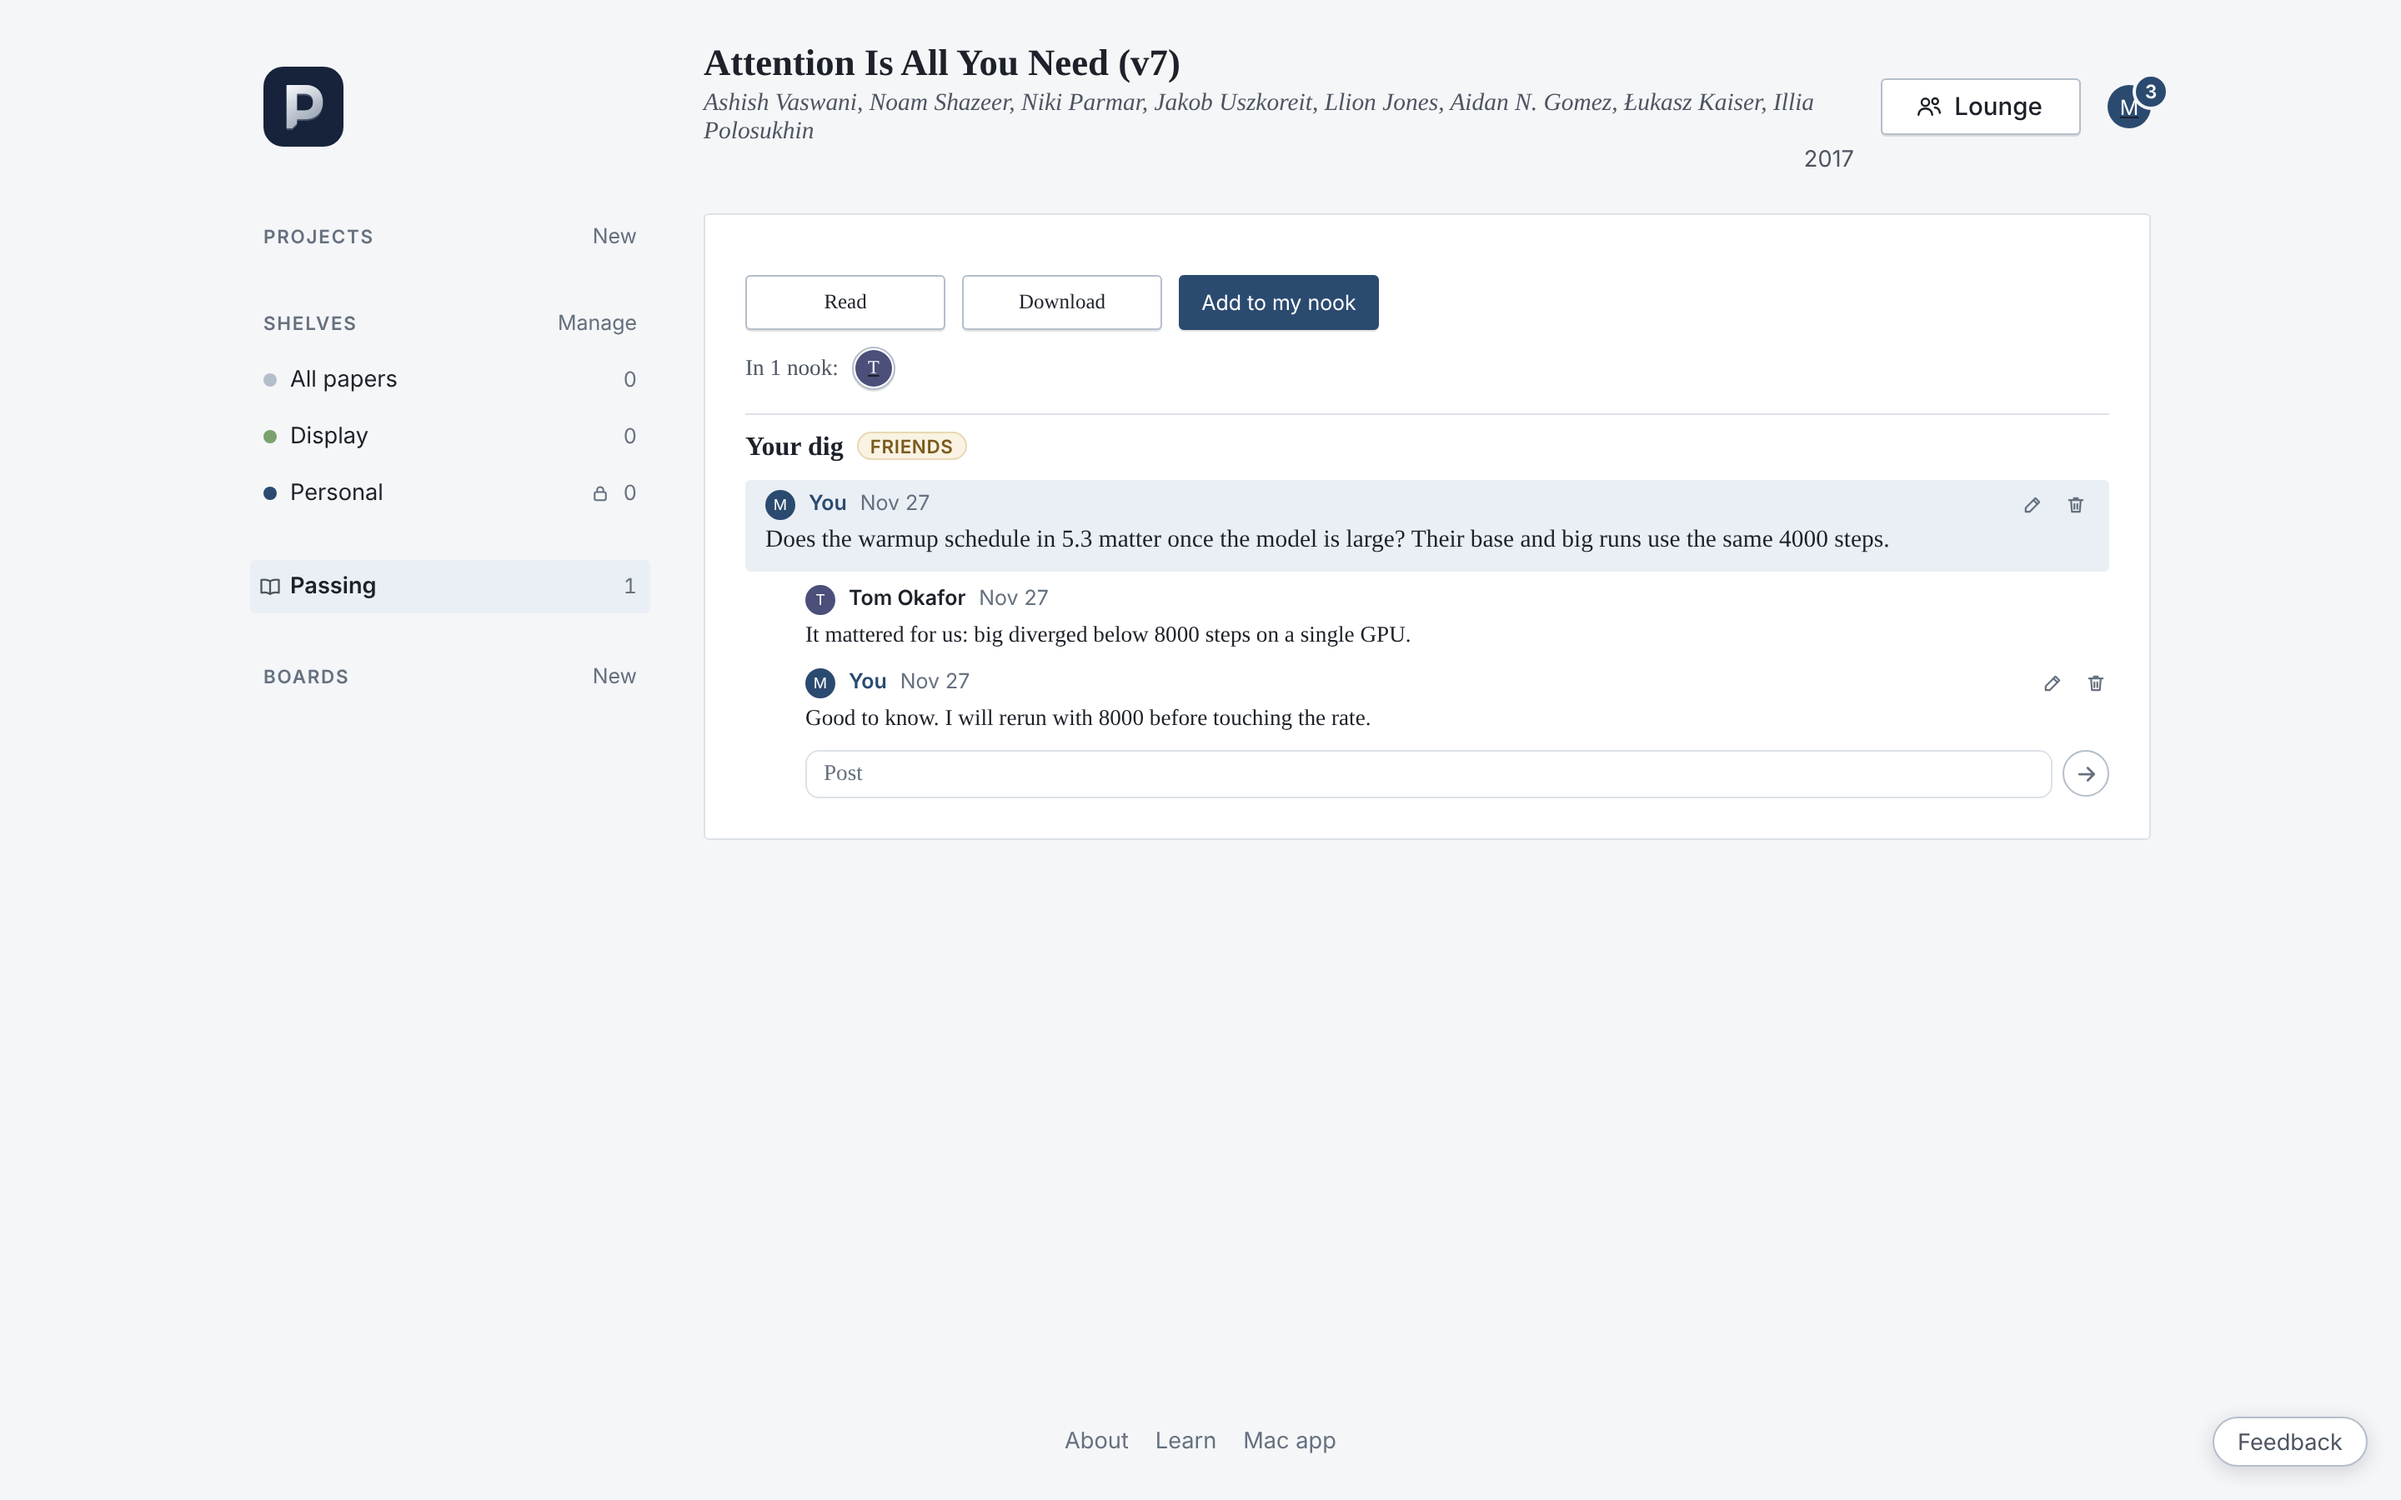
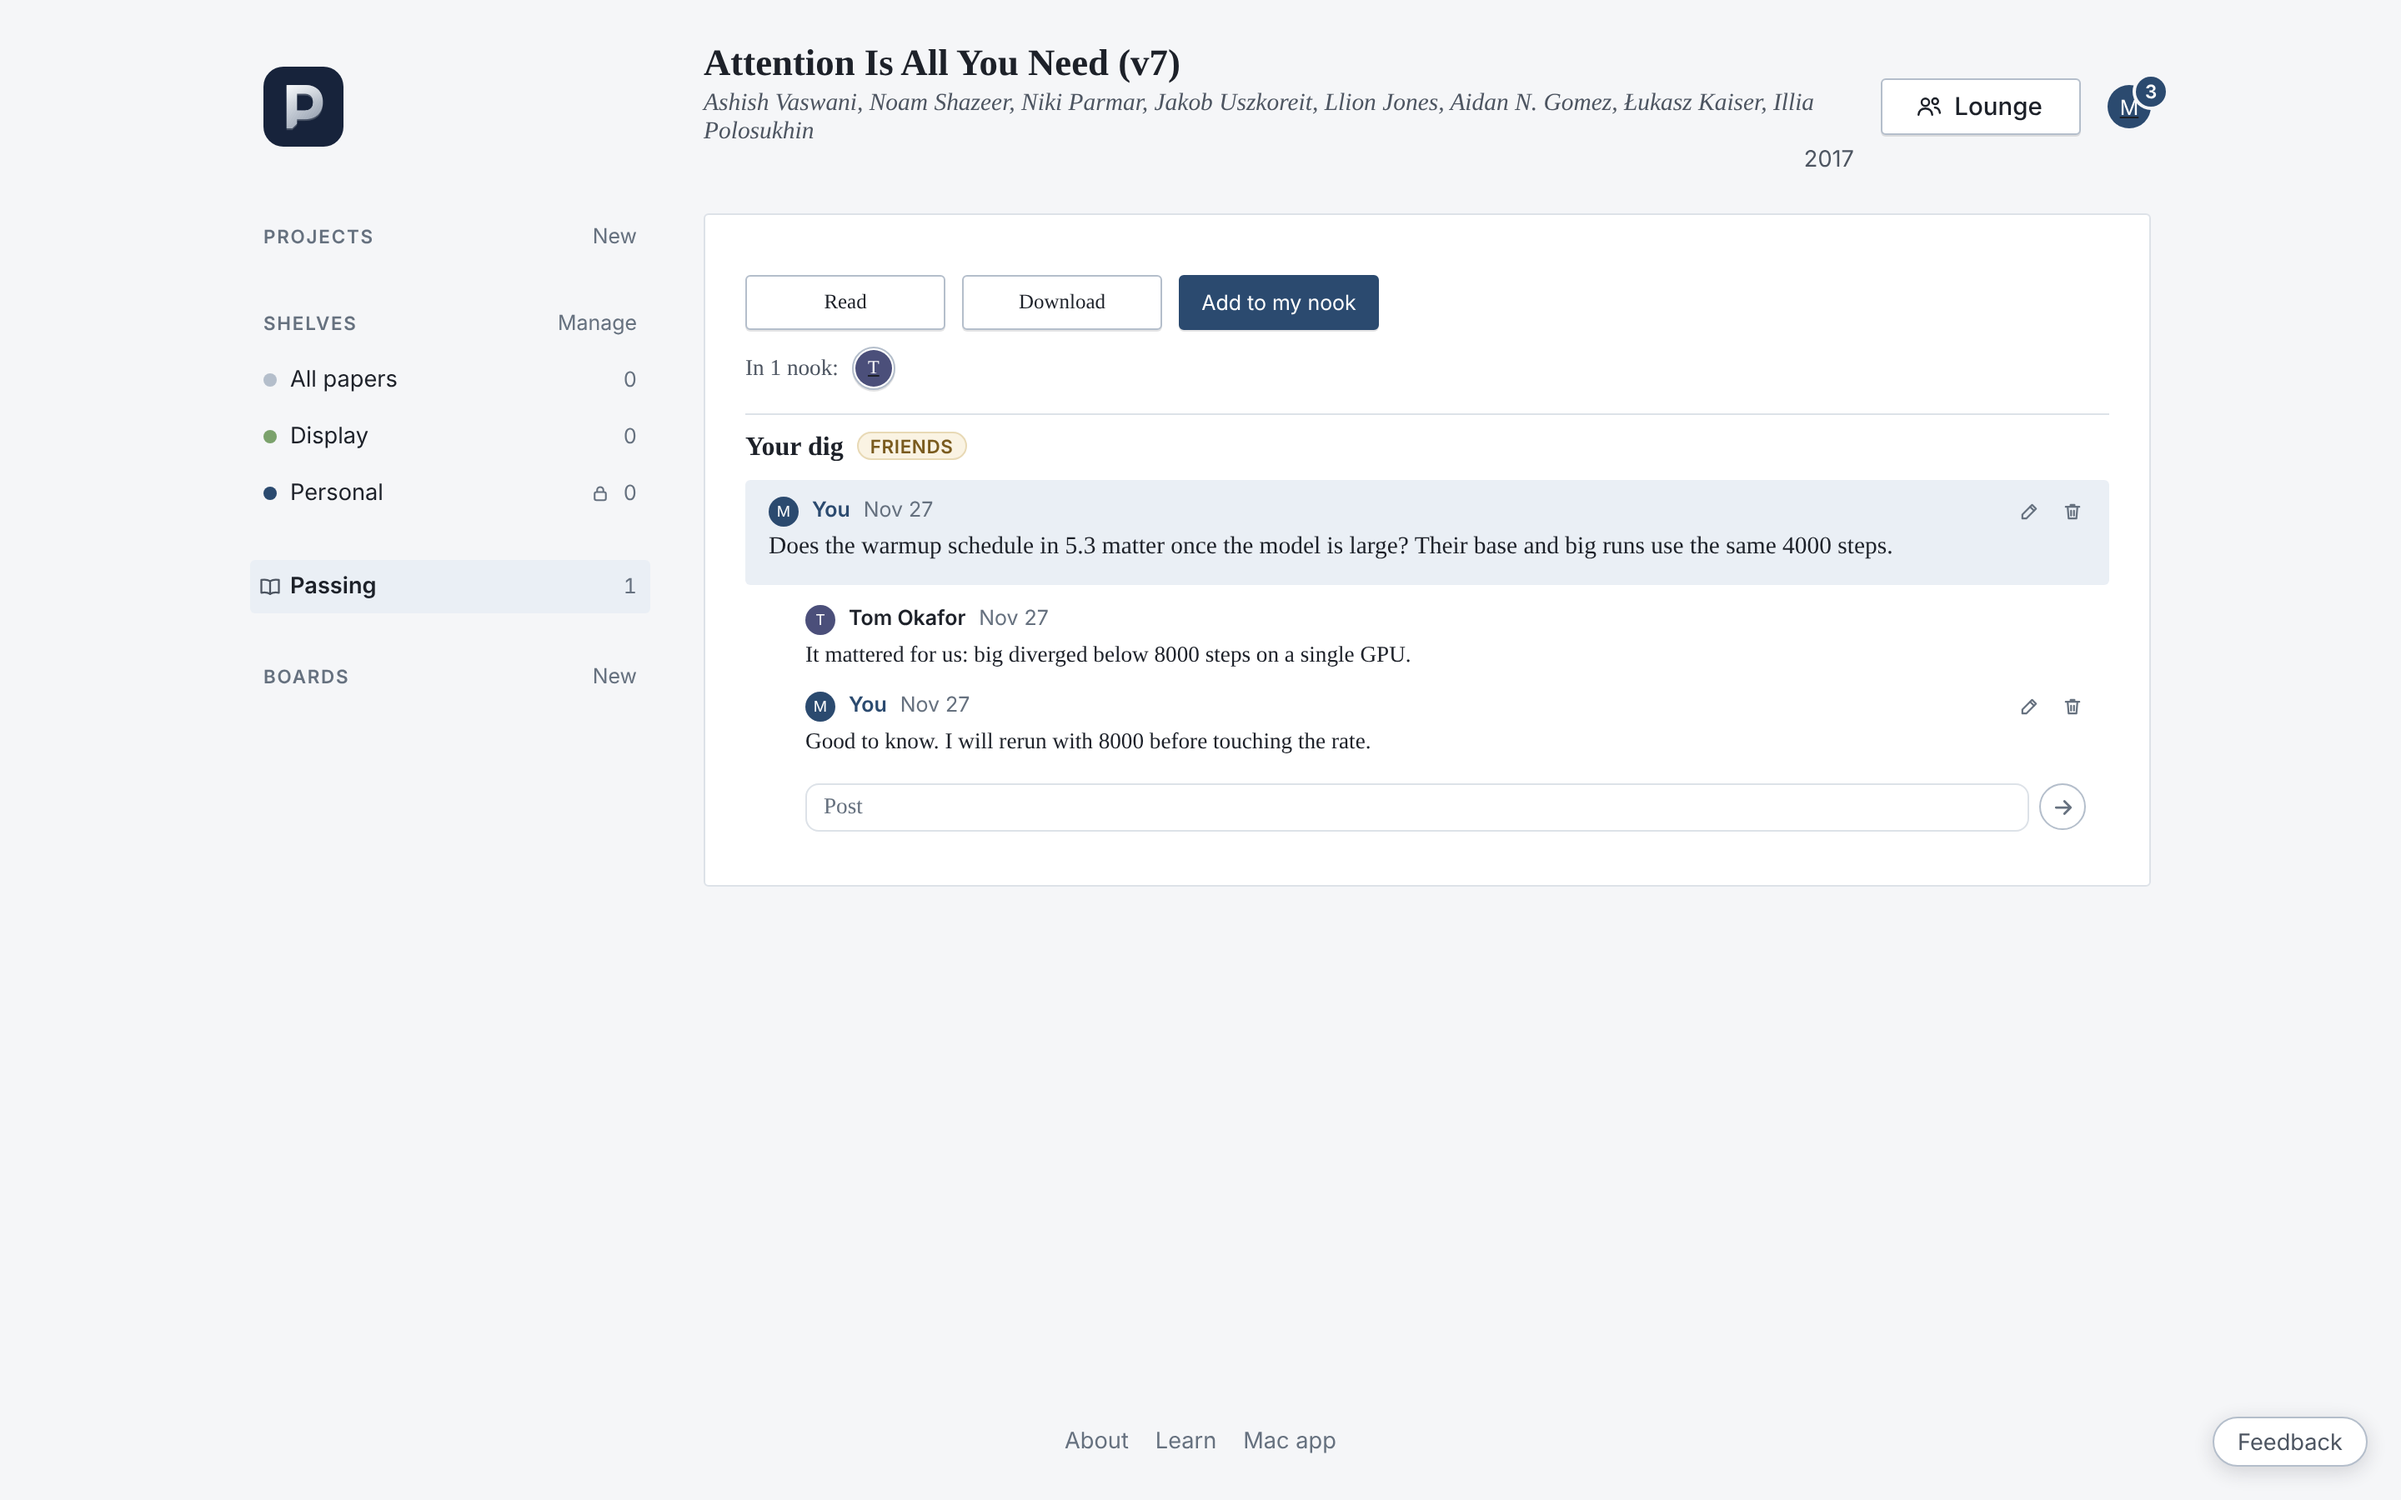
Jacket: room around a dig, its replies, the post box and the edit field
Claude-Session: https://claude.ai/code/session_01PQZzMS6aJCZGme4NASAkAz

Changed region(s): [[0.3125, 0.3111, 0.875, 0.56]]

diff --git a/shared/applicationStyles.js b/shared/applicationStyles.js
@@ -6129,12 +6129,14 @@ ${talkStyles}
 a.friend-dig-focus-on { color: var(--accent); }
 a.friend-dig-focus-on:hover { text-decoration: underline; text-underline-offset: 2px; }
 .friend-dig-focus-what { color: var(--ink-faint); }
-.paper-dig .talk-card.is-conversation .talk-post { padding: 6px 12px 8px; }
+.paper-dig .talk-card.is-conversation .talk-post { padding: 10px 14px 12px; }
 .paper-dig .talk-card.is-conversation .talk-post:first-child:hover { background: var(--accent-soft); }
 .paper-dig .talk-card.is-conversation .talk-post-body { font-size: var(--fs-md); }
-.paper-dig .talk-card.is-conversation .talk-post + .talk-post { margin: 0 0 0 36px; padding: 8px 0 2px; border-radius: 0; background: none; }
+.paper-dig .talk-card.is-conversation .talk-post + .talk-post { margin: var(--space-3) 14px 0 36px; padding: 0; border-radius: 0; background: none; }
+.paper-dig .talk-card.is-conversation .talk-post-edit { gap: var(--space-2); margin-top: var(--space-1); }
+.paper-dig .talk-card.is-conversation .talk-post-edit :is(textarea, .md-field) { padding: 8px 10px; }
 .paper-dig .talk-card.is-conversation .talk-post + .talk-post .talk-post-body { font-size: var(--fs-sm); }
-.paper-dig .talk-card.is-conversation .talk-compose { margin: 0 0 0 36px; padding: 8px 0 0; }
+.paper-dig .talk-card.is-conversation .talk-compose { margin: var(--space-4) 14px var(--space-2) 36px; padding: 0; }
 .paper-dig .talk-card.is-conversation .talk-compose :is(textarea, .md-field) { background: var(--card); }
 @media (max-width: 640px) {
   .room { gap: var(--space-4); }
